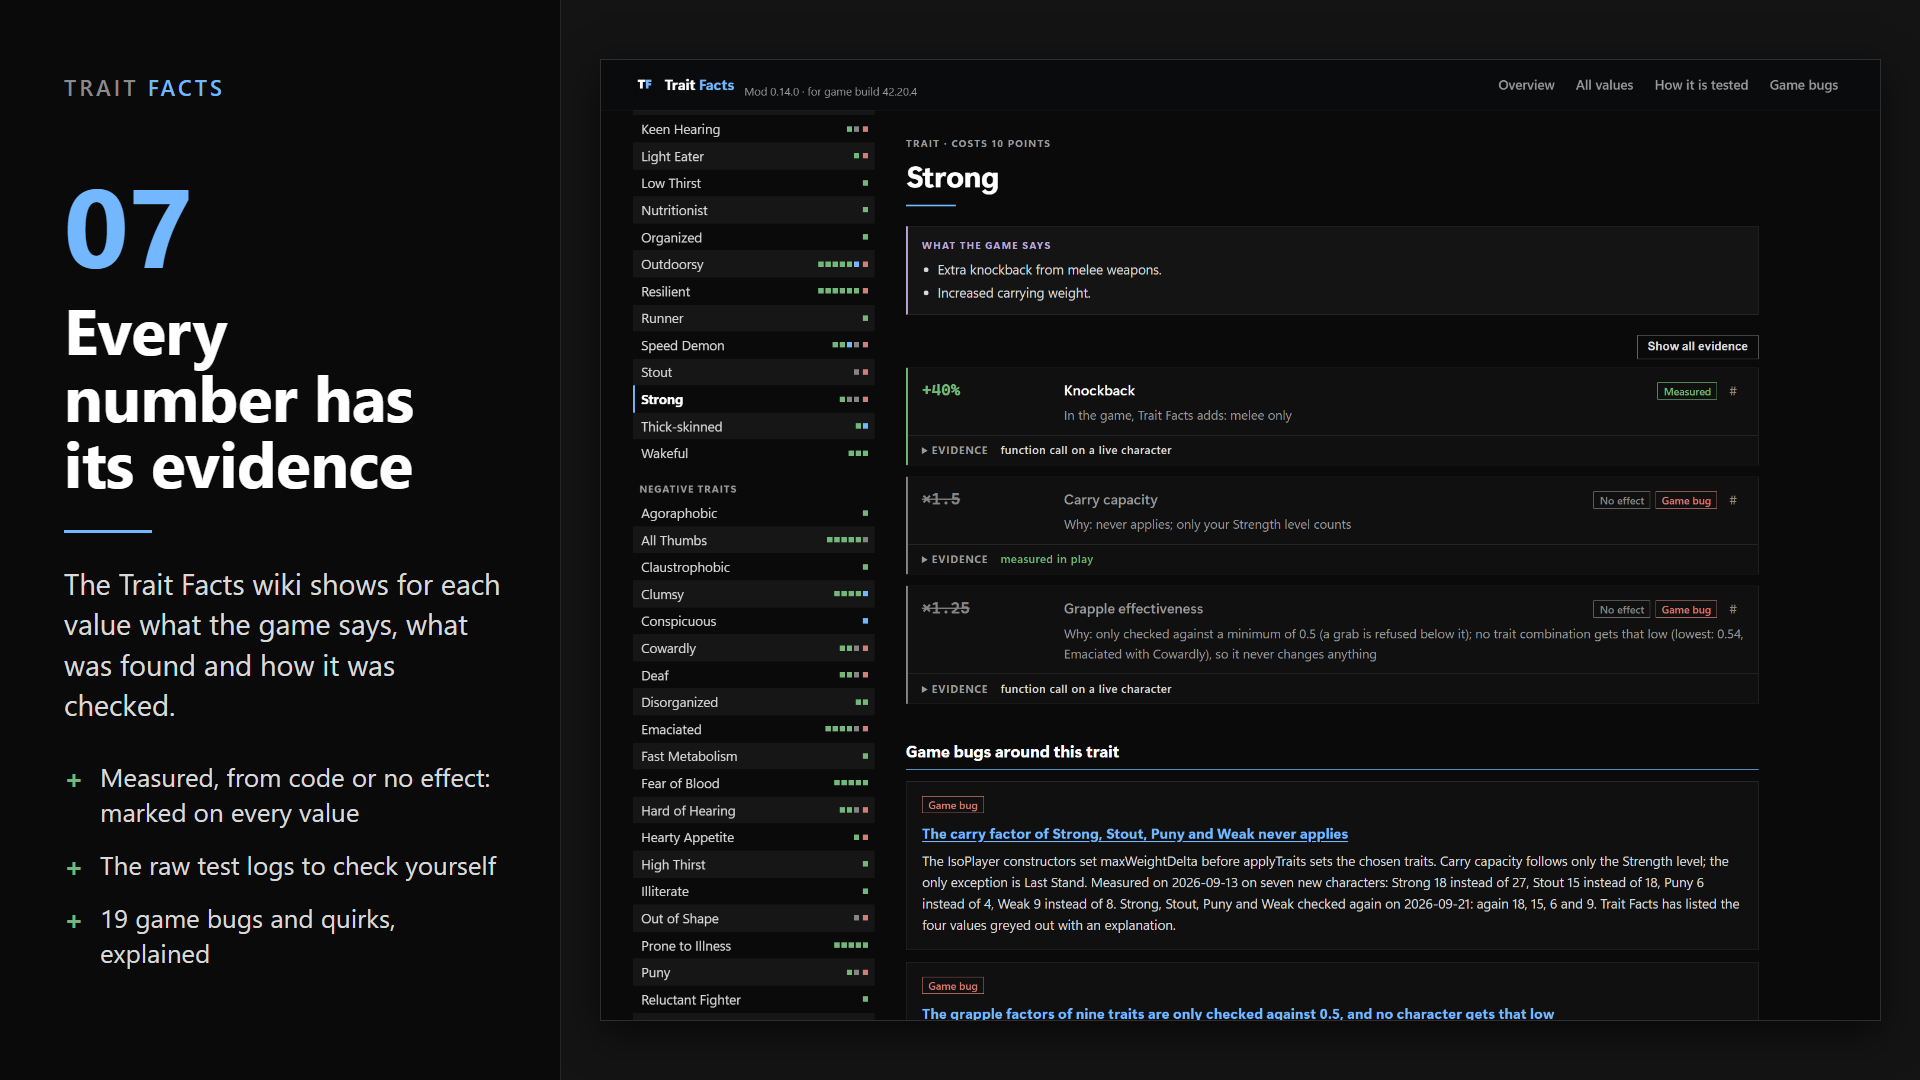
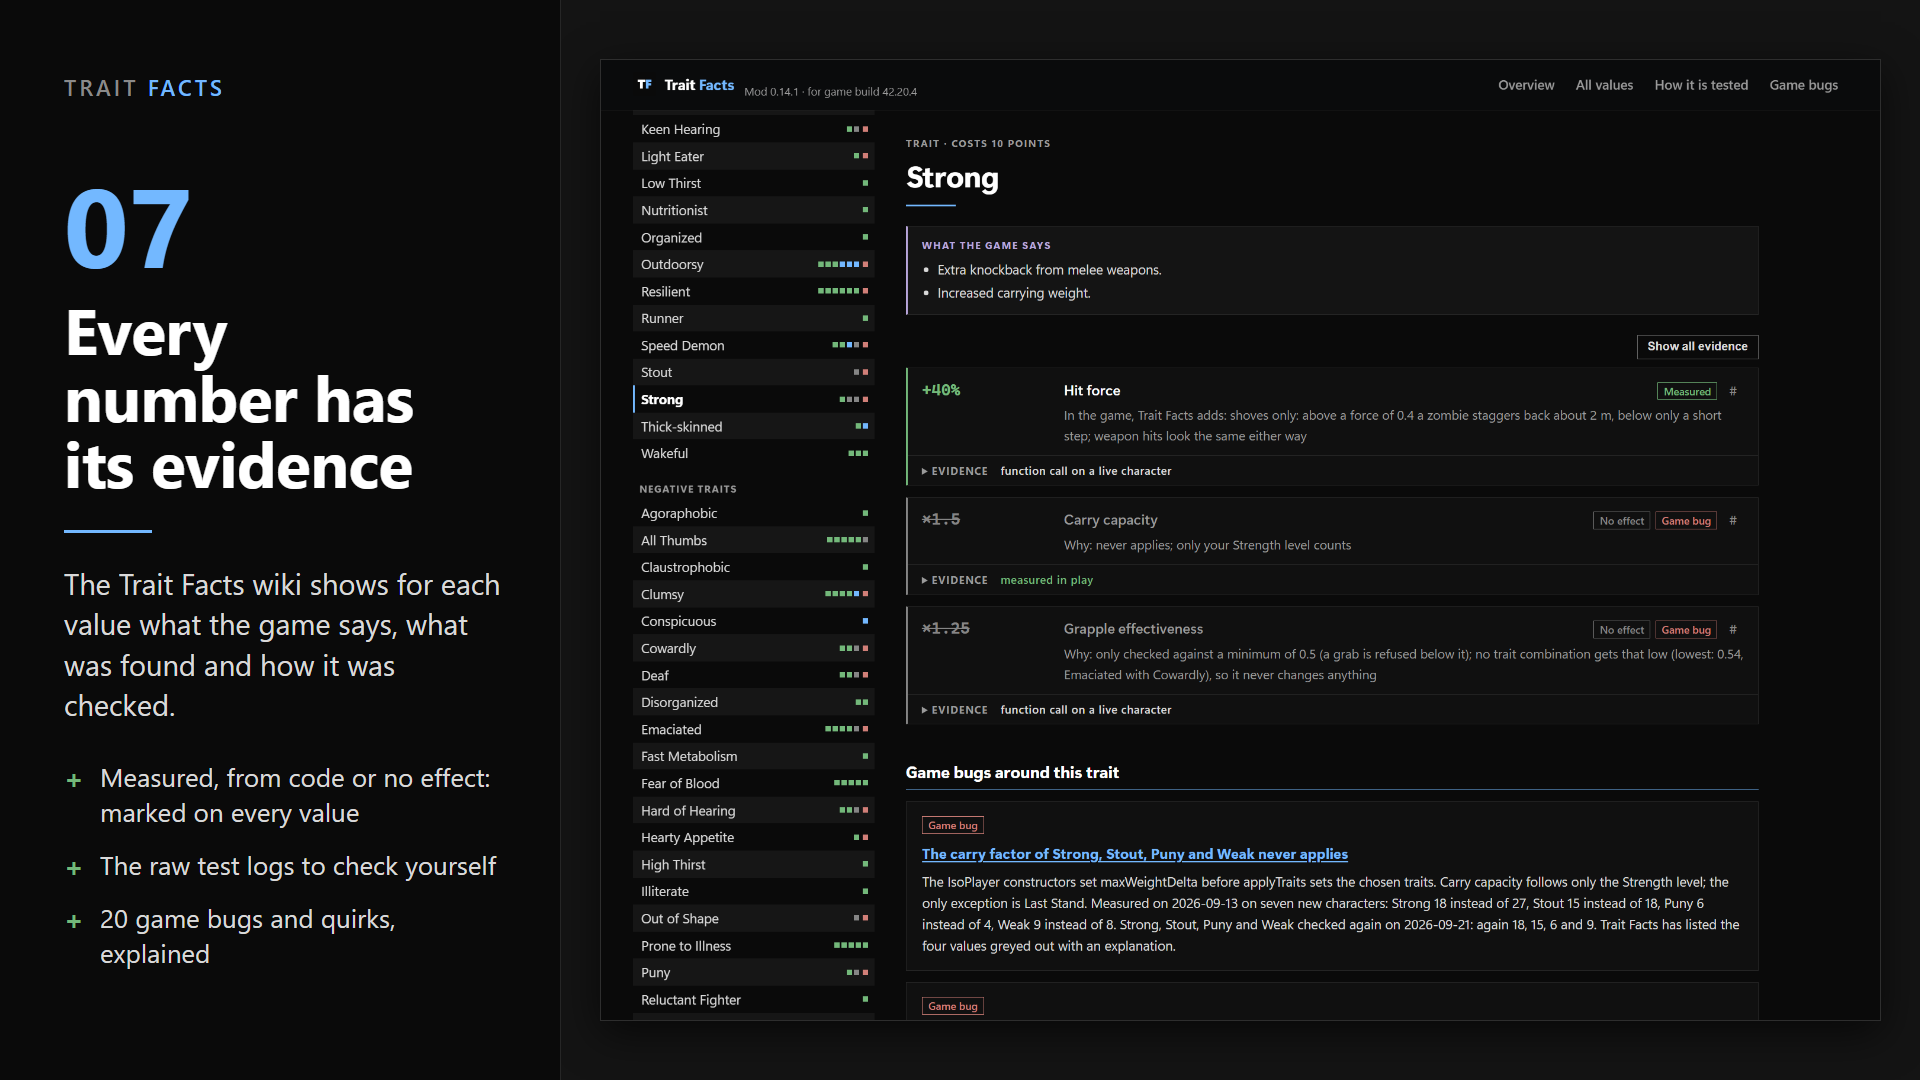
Workshop images 02 and 07, README: numbers after the second facts sweep
Image 02: 157 of 204 values measured, Handy's +100 health measured.
Image 07: Strong's page with Hit force, 20 game bugs. README: fall
damage as the measured example.

diff --git a/README.md b/README.md
@@ -20,12 +20,12 @@ Every value carries one of three sources, and the mod tells you which:
 | Source | How | Example |
 | --- | --- | --- |
 | Live | read from the game while it runs | exclusions, granted traits, recipes, foraging, starting levels |
-| Measured | measured in the running game with a test mod, trait on against trait off | walking speed, panic, endurance, sleep, knockback, colds |
+| Measured | measured in the running game with a test mod, trait on against trait off | walking speed, panic, endurance, sleep, fall damage, colds |
 | Code | read from the game code of Build 42.20.4, stamped with that version | tree scratches, being spotted, hit chance |
 
 If the game runs a different build than the stored values, the overview warns.
-If a live measurement disagrees with a stored value, the measurement wins and the
-row is marked.
+A few stored values are also measured each time the game starts; if a measurement
+disagrees with the stored value, the measurement wins and the row is marked.
 
 Along the way the measurements turned up behaviour the game does not describe,
 from traits that do nothing to values that apply twice. The wiki lists them.
